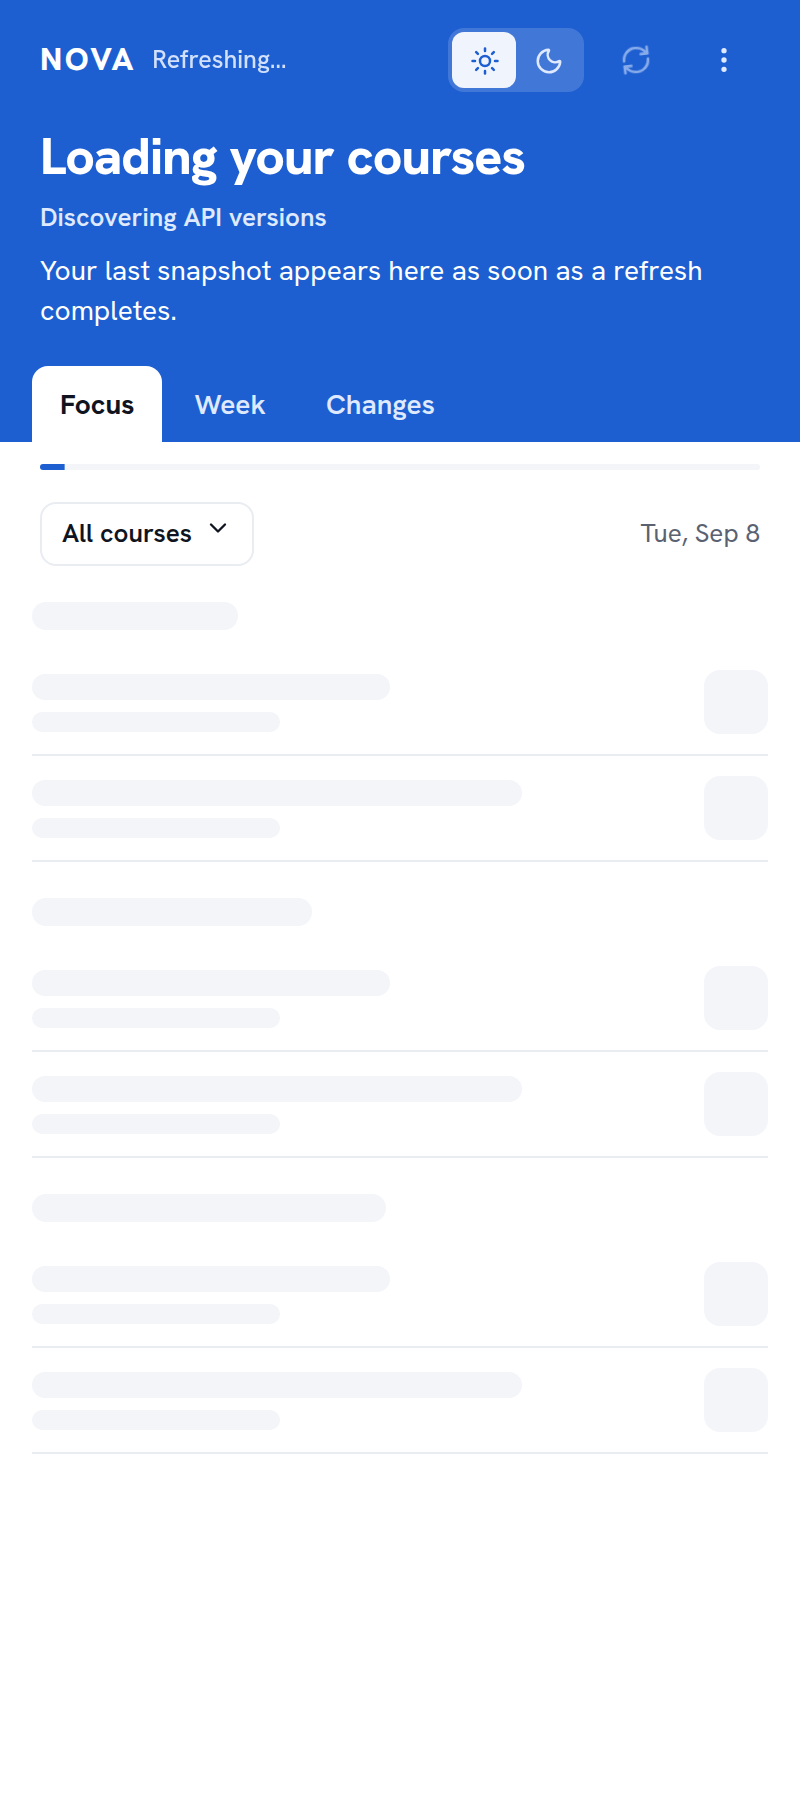
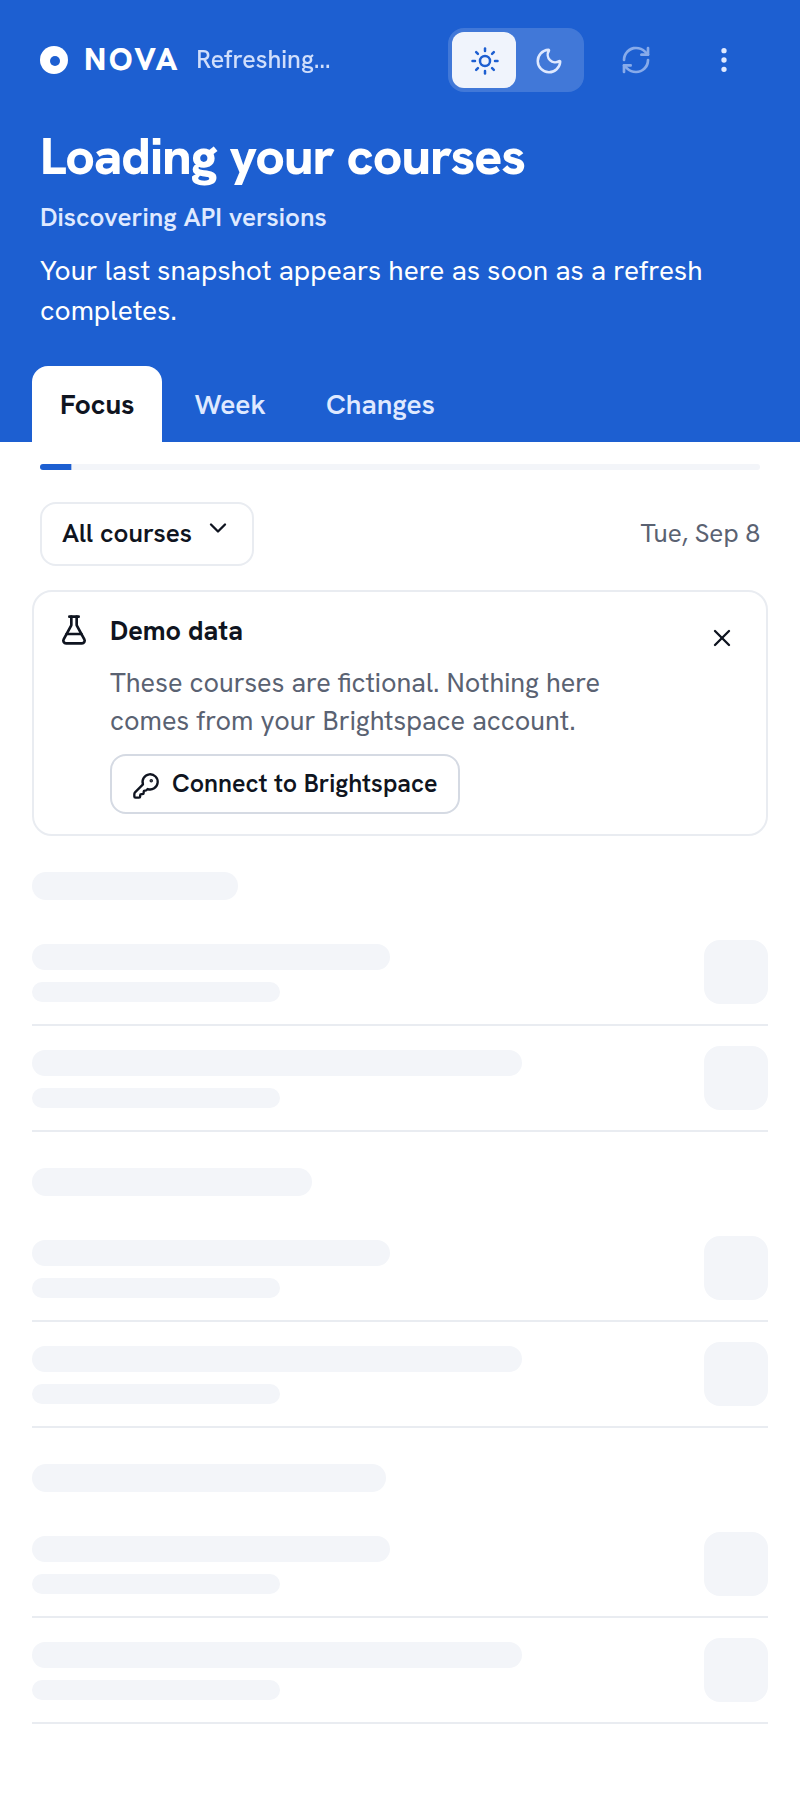
fix(extension): finish-review batch for the Field UI
- Faint text passes AA in both themes; disclaimer, error detail, and
  status notes use the muted role
- Priority breakdown is a definition list with a proper total row
- Unread changes: accent verb instead of a dot that read as a course color
- Focus rows carry a bare kind glyph, no tile; expanded details use a
  hairline rule instead of a nested box
- Amber stays reserved for today: moved and hidden signals and warning
  banners use ink or accent
- Task sub-line wraps at 360 px instead of truncating the course name
- The field's headline settles in once per change (180 ms, reduced
  motion respected); tabular figures are the default; launcher mark
  beside the wordmark
- Preview harness gains mode=demo so captures never show fictional
  data under a Live label; screenshots recaptured

Claude-Session: https://claude.ai/code/session_01S3WW9YeRyY937cNbjwGNCi

diff --git a/apps/extension/src/sidepanel/styles.css b/apps/extension/src/sidepanel/styles.css
@@ -18,7 +18,7 @@
   --nova-surface-hover: #e9ecf1;
   --nova-ink: #0f1420;
   --nova-muted: #5a6272;
-  --nova-faint: #8a93a3;
+  --nova-faint: #6a7383;
   --nova-rule: #e9ecf1;
   --nova-rule-strong: #d5dae3;
   --nova-field: #1d5fd1;
@@ -62,7 +62,7 @@
   --nova-surface-hover: #232a37;
   --nova-ink: #eef1f6;
   --nova-muted: #98a2b3;
-  --nova-faint: #6b7686;
+  --nova-faint: #8b95a5;
   --nova-rule: #232833;
   --nova-rule-strong: #323a49;
   --nova-field: #163f8f;
@@ -101,7 +101,7 @@ body {
   color: var(--nova-ink);
   background: var(--nova-bg);
   -webkit-font-smoothing: antialiased;
-  font-feature-settings: "tnum" 0;
+  font-variant-numeric: tabular-nums;
 }
 button, select, input { font: inherit; color: inherit; }
 button { cursor: pointer; }
@@ -128,13 +128,15 @@ h1, h2, h3, h4, p { margin: 0; }
 /* The field */
 .field { position: sticky; top: 0; z-index: 5; display: flex; flex-direction: column; gap: 16px; padding: 12px 20px 0; background: var(--nova-field); color: var(--nova-field-ink); }
 .field-top { display: flex; align-items: center; gap: 8px; min-height: 32px; }
-.wordmark { font-size: 16px; font-weight: 800; letter-spacing: 0.08em; }
+.wordmark { display: inline-flex; align-items: center; gap: 8px; font-size: 16px; font-weight: 800; letter-spacing: 0.08em; }
+.mark { width: 14px; height: 14px; border-radius: 50%; background: var(--nova-field-ink); display: grid; place-items: center; }
+.mark::after { content: ""; width: 5px; height: 5px; border-radius: 50%; background: var(--nova-field); }
 .freshness { font-size: 12.5px; font-weight: 500; color: var(--nova-field-muted); white-space: nowrap; overflow: hidden; text-overflow: ellipsis; }
 .freshness[data-tone="syncing"] { animation: pulse 1.2s ease-in-out infinite; }
 .field .icon-button { color: var(--nova-field-muted); }
 .field .icon-button:hover:not(:disabled) { background: var(--nova-field-chip); color: var(--nova-field-ink); }
 .field-hero { display: flex; flex-direction: column; }
-.hero { display: flex; flex-direction: column; gap: 6px; }
+.hero { display: flex; flex-direction: column; gap: 6px; animation: hero-in 180ms ease-out; }
 .hero-head { display: flex; align-items: flex-start; gap: 8px; }
 .hero-title { flex: 1; font-size: 26px; font-weight: 800; line-height: 1.15; letter-spacing: -0.02em; text-wrap: balance; }
 .hero-meta { font-size: 13px; font-weight: 600; color: var(--nova-field-muted); }
@@ -227,15 +229,14 @@ h1, h2, h3, h4, p { margin: 0; }
 .task-row { display: grid; grid-template-columns: 1fr auto; align-items: center; gap: 8px; min-height: 56px; padding: 10px 0; }
 .task-main { display: flex; flex-direction: column; gap: 3px; min-width: 0; }
 .task-title { font-size: 15px; font-weight: 600; overflow: hidden; text-overflow: ellipsis; white-space: nowrap; }
-.task-sub { display: flex; align-items: center; gap: 6px; font-size: 12.5px; color: var(--nova-muted); min-width: 0; }
-.task-course { overflow: hidden; text-overflow: ellipsis; white-space: nowrap; }
+.task-sub { display: flex; flex-wrap: wrap; align-items: center; gap: 2px 6px; font-size: 12.5px; color: var(--nova-muted); min-width: 0; }
 .task-sub .due { white-space: nowrap; }
 .task-sub .due[data-tone="overdue"] { color: var(--nova-overdue); font-weight: 600; }
 .task-sub .due[data-tone="today"] { color: var(--nova-today); font-weight: 600; }
 .task[data-done="true"] .task-title { color: var(--nova-muted); text-decoration: line-through; text-decoration-color: var(--nova-faint); }
 .task-aside { display: flex; align-items: center; gap: 2px; }
-.kind-chip { display: inline-grid; place-items: center; width: 32px; height: 32px; border-radius: var(--nova-radius-sm); background: var(--nova-surface); color: var(--nova-muted); }
-.kind-chip[data-status="submitted"], .kind-chip[data-status="completed"] { color: var(--nova-done); background: var(--nova-done-soft); }
+.kind-chip { display: inline-grid; place-items: center; width: 32px; height: 32px; border-radius: var(--nova-radius-sm); color: var(--nova-muted); }
+.kind-chip[data-status="submitted"], .kind-chip[data-status="completed"] { color: var(--nova-done); }
 .kind-chip[data-status="in-progress"] { color: var(--nova-today); }
 .task-details { padding: 4px 0 16px; animation: slide-down 160ms ease-out; }
 
@@ -245,13 +246,15 @@ h1, h2, h3, h4, p { margin: 0; }
 .details dl { display: grid; grid-template-columns: auto 1fr; gap: 4px 12px; margin: 0; }
 .details dt { color: var(--nova-muted); }
 .details dd { margin: 0; }
-.priority-box { padding: 10px 12px; border: 1px solid var(--nova-rule); border-radius: var(--nova-radius-sm); }
+.priority-box { padding: 10px 0 0; border-top: 1px solid var(--nova-rule); }
 .priority-box header { display: flex; align-items: center; justify-content: space-between; gap: 8px; font-size: 13px; font-weight: 600; color: var(--nova-muted); }
 .priority-box header strong { font-size: 15px; color: var(--nova-ink); }
 .reasons { display: flex; flex-direction: column; gap: 4px; margin-top: 6px; }
 .reasons li { font-size: 13.5px; }
-.breakdown { display: grid; grid-template-columns: 1fr auto; gap: 3px 12px; margin-top: 8px; font-variant-numeric: tabular-nums; font-size: 13px; }
-.breakdown span:nth-child(even) { text-align: right; color: var(--nova-muted); }
+.breakdown { display: grid; grid-template-columns: 1fr auto; gap: 3px 12px; margin: 8px 0 0; font-size: 13px; }
+.breakdown dt { color: var(--nova-ink); }
+.breakdown dd { margin: 0; text-align: right; color: var(--nova-muted); }
+.breakdown .total dt, .breakdown .total dd { font-weight: 700; color: var(--nova-ink); border-top: 1px solid var(--nova-rule); padding-top: 4px; }
 .disclosure { display: inline-flex; align-items: center; gap: 4px; min-height: 30px; padding: 0 6px; margin-left: -6px; border: 0; background: transparent; color: var(--nova-accent); font-size: 13px; font-weight: 600; }
 .card-actions { display: flex; flex-wrap: wrap; align-items: center; gap: 8px; }
 
@@ -294,7 +297,7 @@ h1, h2, h3, h4, p { margin: 0; }
 .menu-item svg { color: var(--nova-muted); }
 .menu-item[data-danger="true"] svg { color: inherit; }
 .menu-separator { height: 1px; margin: 6px 4px; background: var(--nova-rule); }
-.menu-label { padding: 6px 10px 2px; font-size: 12px; font-weight: 700; color: var(--nova-faint); }
+.menu-label { padding: 6px 10px 2px; font-size: 12px; font-weight: 700; color: var(--nova-muted); }
 
 /* Signal feed */
 .feed-group { display: flex; flex-direction: column; }
@@ -303,12 +306,12 @@ h1, h2, h3, h4, p { margin: 0; }
 .signal:last-child { border-bottom: 0; }
 .signal-icon { display: grid; place-items: center; width: 32px; height: 32px; border-radius: var(--nova-radius-sm); background: var(--nova-surface); color: var(--nova-accent); }
 .signal-icon[data-tone="coral"] { color: var(--nova-overdue); }
-.signal-icon[data-tone="amber"] { color: var(--nova-today); }
+.signal-icon[data-tone="amber"] { color: var(--nova-ink); }
 .signal-icon[data-tone="mint"] { color: var(--nova-done); }
 .signal-main { min-width: 0; display: flex; flex-direction: column; gap: 3px; }
 .signal-verb { display: flex; align-items: center; gap: 6px; font-weight: 600; font-size: 14px; }
 .signal[data-unread="true"] .signal-verb { font-weight: 700; }
-.signal[data-unread="true"] .signal-verb::after { content: ""; width: 8px; height: 8px; border-radius: 4px; background: var(--nova-accent); }
+.signal[data-unread="true"] .signal-verb > span:first-child { color: var(--nova-accent); }
 .signal-verb .course-name { font-weight: 500; color: var(--nova-muted); overflow: hidden; text-overflow: ellipsis; white-space: nowrap; }
 .signal-body { font-size: 14px; line-height: 1.4; }
 .signal-body .arrow { color: var(--nova-faint); margin: 0 4px; }
@@ -326,7 +329,7 @@ h1, h2, h3, h4, p { margin: 0; }
 .banner strong { font-weight: 700; }
 .banner p { color: var(--nova-muted); }
 .banner[data-tone="info"] svg { color: var(--nova-accent); }
-.banner[data-tone="warn"] svg { color: var(--nova-today); }
+.banner[data-tone="warn"] svg { color: var(--nova-ink); }
 .banner[data-tone="critical"] { border-color: var(--nova-overdue); }
 .banner[data-tone="critical"] svg { color: var(--nova-overdue); }
 .banner[data-tone="success"] svg { color: var(--nova-done); }
@@ -356,6 +359,7 @@ h1, h2, h3, h4, p { margin: 0; }
 .dialog .card-actions { justify-content: flex-end; margin-top: 16px; }
 .report { max-height: 220px; overflow: auto; padding: 8px 10px; border: 1px solid var(--nova-rule); border-radius: var(--nova-radius-sm); background: var(--nova-surface); font-family: ui-monospace, SFMono-Regular, Menlo, monospace; font-size: 11.5px; white-space: pre-wrap; color: var(--nova-muted); }
 
+@keyframes hero-in { from { opacity: 0; transform: translateY(4px); } to { opacity: 1; transform: none; } }
 @keyframes slide-down { from { opacity: 0; transform: translateY(-3px); } to { opacity: 1; transform: none; } }
 @keyframes fade-in { from { opacity: 0; } to { opacity: 1; } }
 @keyframes pulse { 0%, 100% { opacity: 1; } 50% { opacity: 0.45; } }

diff --git a/apps/extension/src/sidepanel/components/ItemDetails.tsx b/apps/extension/src/sidepanel/components/ItemDetails.tsx
@@ -37,7 +37,7 @@ export const ItemDetails = ({ item, course, ranked, now, canOpen, onOpen, headin
           {item.dueAt ? <span className="muted"> ({formatRelative(item.dueAt, now)})</span> : null}
         </dd>
         <dt>Status</dt>
-        <dd>{STATUS_LABELS[item.status]}{item.status === "unknown" ? <span className="faint"> · Brightspace did not share submission state</span> : null}</dd>
+        <dd>{STATUS_LABELS[item.status]}{item.status === "unknown" ? <span className="muted"> · Brightspace did not share submission state</span> : null}</dd>
         {item.pointsPossible !== null ? (
           <>
             <dt>Points</dt>
@@ -67,20 +67,18 @@ export const ItemDetails = ({ item, course, ranked, now, canOpen, onOpen, headin
             {showBreakdown ? "Hide breakdown" : "Show breakdown"}
           </button>
           {showBreakdown ? (
-            <div className="breakdown" role="table" aria-label="Priority breakdown">
+            <dl className="breakdown" aria-label="Priority breakdown">
               {(Object.keys(ranked.priority.components) as (keyof typeof ranked.priority.components)[]).map((component) => (
-                <span key={component} style={{ display: "contents" }} role="row">
-                  <span role="cell">{COMPONENT_LABELS[component]}</span>
-                  <span role="cell">{ranked.priority.components[component].toFixed(1)}</span>
-                </span>
+                <div key={component} style={{ display: "contents" }}>
+                  <dt>{COMPONENT_LABELS[component]}</dt>
+                  <dd className="mono">{ranked.priority.components[component].toFixed(1)}</dd>
+                </div>
               ))}
-              <span role="cell">
-                <strong>Total (rounded, 0–100)</strong>
-              </span>
-              <span role="cell">
-                <strong>{ranked.priority.score}</strong>
-              </span>
-            </div>
+              <div className="total" style={{ display: "contents" }}>
+                <dt>Total (rounded, 0 to 100)</dt>
+                <dd className="mono">{ranked.priority.score}</dd>
+              </div>
+            </dl>
           ) : null}
         </section>
       ) : (

diff --git a/apps/extension/src/sidepanel/components/icons.tsx b/apps/extension/src/sidepanel/components/icons.tsx
@@ -40,17 +40,17 @@ export const changeIcon = (event: ChangeEvent): { icon: React.ReactNode; tone: T
     case "item-added":
       return { icon: <Plus size={15} aria-hidden="true" />, tone: "blue" };
     case "due-date-changed":
-      return { icon: <ArrowRightLeft size={15} aria-hidden="true" />, tone: "amber" };
+      return { icon: <ArrowRightLeft size={15} aria-hidden="true" />, tone: "blue" };
     case "became-overdue":
       return { icon: <AlarmClock size={15} aria-hidden="true" />, tone: "coral" };
     case "status-changed":
       return { icon: <CheckCircle2 size={15} aria-hidden="true" />, tone: "mint" };
     case "visibility-changed":
       return event.after?.visibility === "hidden"
-        ? { icon: <EyeOff size={15} aria-hidden="true" />, tone: "amber" }
+        ? { icon: <EyeOff size={15} aria-hidden="true" />, tone: "blue" }
         : { icon: <Eye size={15} aria-hidden="true" />, tone: "blue" };
     case "item-removed":
-      return { icon: <Trash2 size={15} aria-hidden="true" />, tone: "amber" };
+      return { icon: <Trash2 size={15} aria-hidden="true" />, tone: "blue" };
     case "announcement-added":
       return { icon: <Megaphone size={15} aria-hidden="true" />, tone: "blue" };
     case "announcement-updated":

diff --git a/apps/extension/src/sidepanel/components/FieldHeader.tsx b/apps/extension/src/sidepanel/components/FieldHeader.tsx
@@ -37,7 +37,10 @@ export type FieldHeaderProps = {
 export const FieldHeader = ({ freshness: fresh, theme, onThemeChange, onRefresh, refreshing, refreshDisabled, menu, hero, counts, tabs }: FieldHeaderProps) => (
   <header className="field">
     <div className="field-top">
-      <span className="wordmark">NOVA</span>
+      <span className="wordmark">
+        <span className="mark" aria-hidden="true" />
+        NOVA
+      </span>
       <span className="freshness" data-tone={fresh.tone} role="status" aria-label={`Connection: ${fresh.label}`}>
         {fresh.text}
       </span>
@@ -59,7 +62,7 @@ export const FieldHeader = ({ freshness: fresh, theme, onThemeChange, onRefresh,
 export type HeroProps = { title: string; meta: string; text: string; actions?: ReactNode; aside?: ReactNode; extra?: ReactNode; headingId?: string };
 
 export const Hero = ({ title, meta, text, actions, aside, extra, headingId }: HeroProps) => (
-  <div className="hero">
+  <div className="hero" key={title}>
     <div className="hero-head">
       <h2 className="hero-title" id={headingId}>
         {title}

diff --git a/apps/extension/dev/preview.tsx b/apps/extension/dev/preview.tsx
@@ -27,6 +27,7 @@ import "../src/sidepanel/styles.css";
  * with a stub host so every UI state can be reviewed without Chrome APIs:
  *   preview.html?scenario=ready|changes|week|fixture|first-run|loading|partial|session-expired|stale|offline|permission-required|empty
  *   &theme=light|dark
+ *   &mode=demo   (label the data as demo regardless of scenario)
  */
 
 type Scenario = "ready" | "changes" | "week" | "fixture" | "first-run" | "loading" | "partial" | "session-expired" | "stale" | "offline" | "permission-required" | "empty";
@@ -109,6 +110,7 @@ const main = async () => {
 
   const activeTab = tab ?? (scenario === "changes" ? "changes" : scenario === "week" ? "week" : "focus");
   const theme = params.get("theme") === "dark" ? "dark" : "light";
+  if (params.get("mode") === "demo") await setPreference(db, DATA_MODE_PREFERENCE, "fixture");
   await setPreference(db, "ui.preferences", { activeTab, courseFilter: null, collapsedSections: ["completed", "later"], theme } satisfies UiPreferences);
 
   createRoot(document.getElementById("root") as HTMLElement).render(

diff --git a/tests/ui/missionControl.test.tsx b/tests/ui/missionControl.test.tsx
@@ -171,7 +171,7 @@ describe("keyboard navigation", () => {
     expect(expand.getAttribute("aria-expanded")).toBe("true");
     expect(screen.getByRole("button", { name: /show breakdown/i })).toBeTruthy();
     await user.click(screen.getByRole("button", { name: /show breakdown/i }));
-    expect(screen.getByRole("table", { name: /priority breakdown/i })).toBeTruthy();
+    expect(screen.getByText(/total \(rounded, 0 to 100\)/i)).toBeTruthy();
   });
 
   it("renders the week view with seven days and item popovers", async () => {

diff --git a/apps/extension/src/sidepanel/components/Banners.tsx b/apps/extension/src/sidepanel/components/Banners.tsx
@@ -121,7 +121,7 @@ export const StateBanners = (props: StateBannersProps) => {
         }
       >
         <p>Brightspace refused the read-only routes for your session. Official OAuth access must be registered by Villanova before live data can load.</p>
-        {error ? <p className="faint">{describeError(error)}</p> : null}
+        {error ? <p>{describeError(error)}</p> : null}
       </Banner>,
     );
   } else if (phase === "offline") {

diff --git a/apps/extension/src/sidepanel/components/FirstRun.tsx b/apps/extension/src/sidepanel/components/FirstRun.tsx
@@ -20,6 +20,6 @@ export const FirstRun = ({ busy, onConnectLive, onUseDemo }: FirstRunProps) => (
         Explore with demo data
       </button>
     </div>
-    <p className="faint">Unofficial student project. Not affiliated with Villanova University or D2L.</p>
+    <p className="muted">Unofficial student project. Not affiliated with Villanova University or D2L.</p>
   </section>
 );
